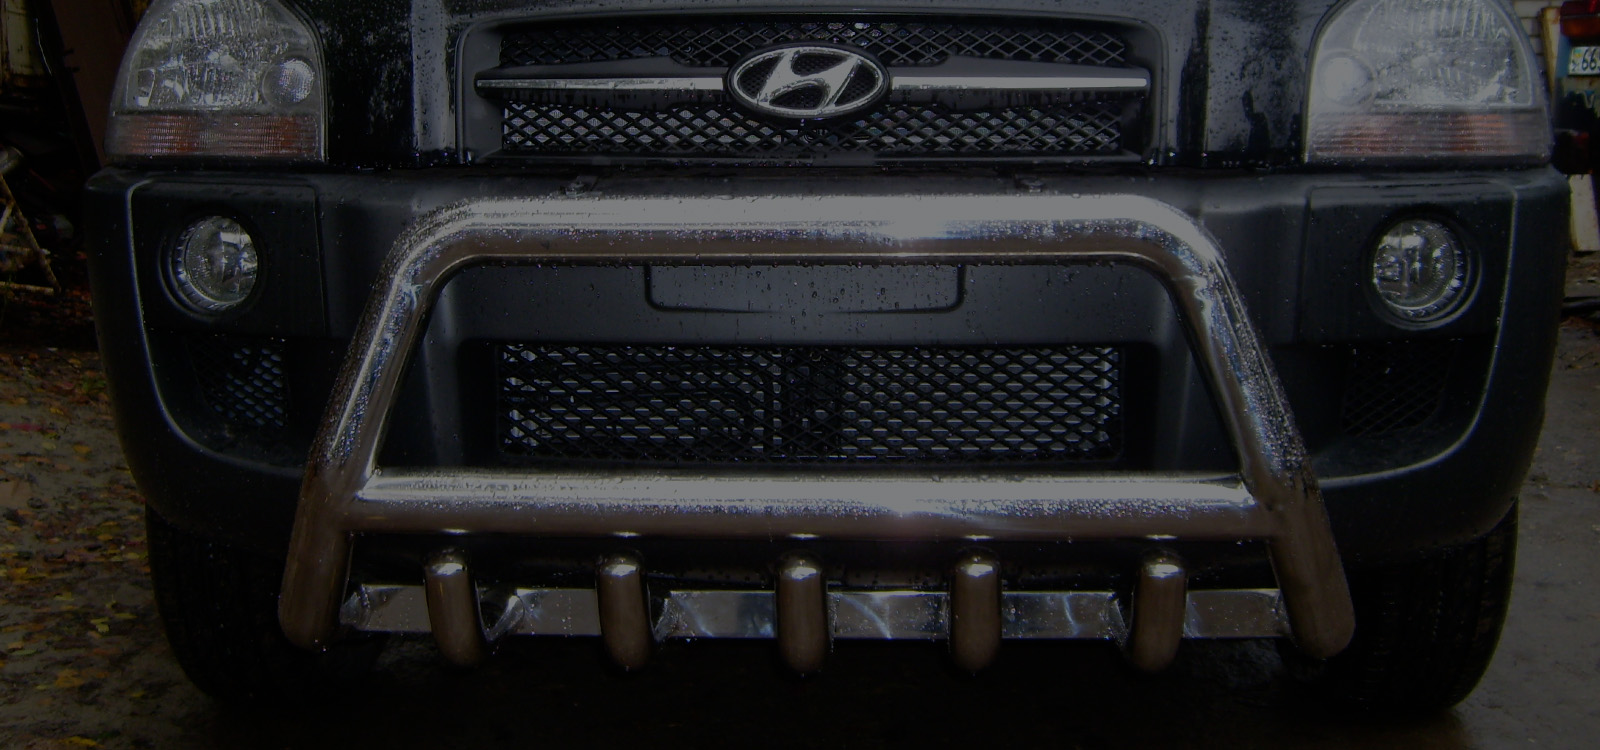
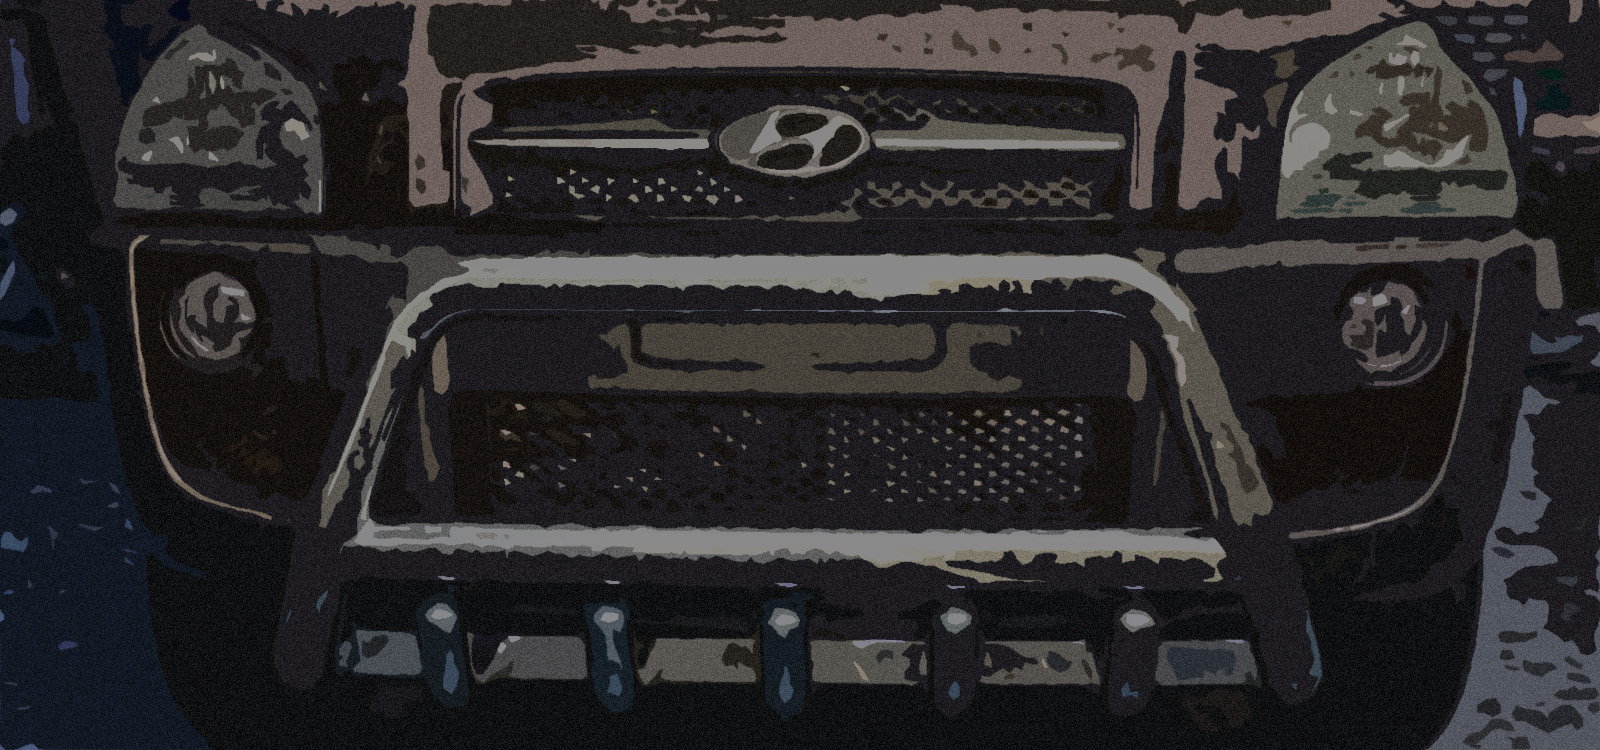
11/4/2017

diff --git a/autotune/Content/web-style.css b/autotune/Content/web-style.css
@@ -1,6 +1,6 @@
 body {
     line-height: 1.5;
-    font-family: 'Open Sans', sans-serif;
+    font-family: 'Ubuntu', sans-serif;
     overflow-x: hidden;
     color: #DFFDFF;
     background-color: #DFFDFF;
@@ -39,7 +39,7 @@
 
 .welcome {
     margin-top: 50px;
-    background: url('../Images/Infrastructure/123.jpg');
+    background: url('../Images/Infrastructure/head.jpg');
     background-repeat: no-repeat;
     background-size: cover;
     background-position: center;
@@ -109,19 +109,23 @@
 
 .ghost-button {
     display: inline-block;
-    background-color: #DFFDFF;
+    background-color: transparent;
     padding: 12px;
-    color: #03121A;
+    color: #DFFDFF;
+    border: 2px solid #DFFDFF;
     text-align: center;
     outline: none;
     text-decoration: none;
     transition: background-color 0.2s ease-out, color 0.2s ease-out;
+    margin-top: 38px;
 }
 
     .ghost-button:hover,
     .ghost-button:active {
-        background-color: #AAAE7F;
         color: #DFFDFF;
+        background-color: #AAAE7F;
+        border:none;
+        border: 2px solid #AAAE7F;
         text-decoration: none;
         transition: background-color 0.3s ease-in, color 0.3s ease-in;
     }
@@ -150,20 +154,21 @@
     margin-bottom: 50px;
 }
 
-.benefits-icon {
-    margin-top: 20px;
-    text-align: center;
-    margin-bottom: 20px;
-    height: 92px;
-    width: 92px;
+.benefits-wrapper{
+    color: #03121A;
+    text-align:center;
 }
 
-.benefits-wrapper {
-    text-align: center;
+.benefits-wrapper img {
+    height: 128px;
+    width: 128px;
+    float:left;
+    margin-right:10px;
+    margin-top:25px;
 }
 
-.benefits-text {
-    color: black;
+.benefits-wrapper p {
+    text-align:start;
 }
 
 h1.txt-tl {
@@ -175,7 +180,7 @@ h1.txt-tl {
     margin-bottom: 50px;
     padding-top: 50px;
     padding-bottom: 50px;
-    background: url('../Images/Infrastructure/111.jpg') no-repeat center fixed;
+    background: url('../Images/Infrastructure/scroll.jpg') no-repeat center fixed;
     -webkit-background-size: 100% auto;
     -moz-background-size: 100% auto;
     -o-background-size: 100% auto;
@@ -189,17 +194,17 @@ h1.txt-tl {
     background-position: center center;
     position: relative;
     display: block;
+    color: #DFFDFF;
 }
 
-.cta-txt h3 {
-    font-size: 32px;
-    margin-bottom: 10px;
+.scroller-text h3 {
+    font-size: 22px;
     font-weight: 700;
-    color: #fff;
 }
 
-.cta-txt p {
-    color: #fff;
+.scroller-text h1 {
+    font-size: 14px;
+    line-height:21px;
 }
 /****/
 .portfolio-box {
@@ -218,13 +223,17 @@ footer {
     background-color: #03121A;
 }
 /****/
-@media (min-width: 451px) and (max-width: 900px) {
+@media (min-width: 451px) and (max-width: 1000px) {
     .section-title {
         margin-bottom: 15px;
     }
 
     .title {
         font-size: 60px;
+    }
+
+    .benefits-wrapper img {
+        margin-top:0px;
     }
 }
 
@@ -239,10 +248,6 @@ footer {
 
     .section-title {
         margin-bottom: 15px;
-    }
-
-    .cta-txt h3 {
-        font-size: 28px;
     }
 
     body {
